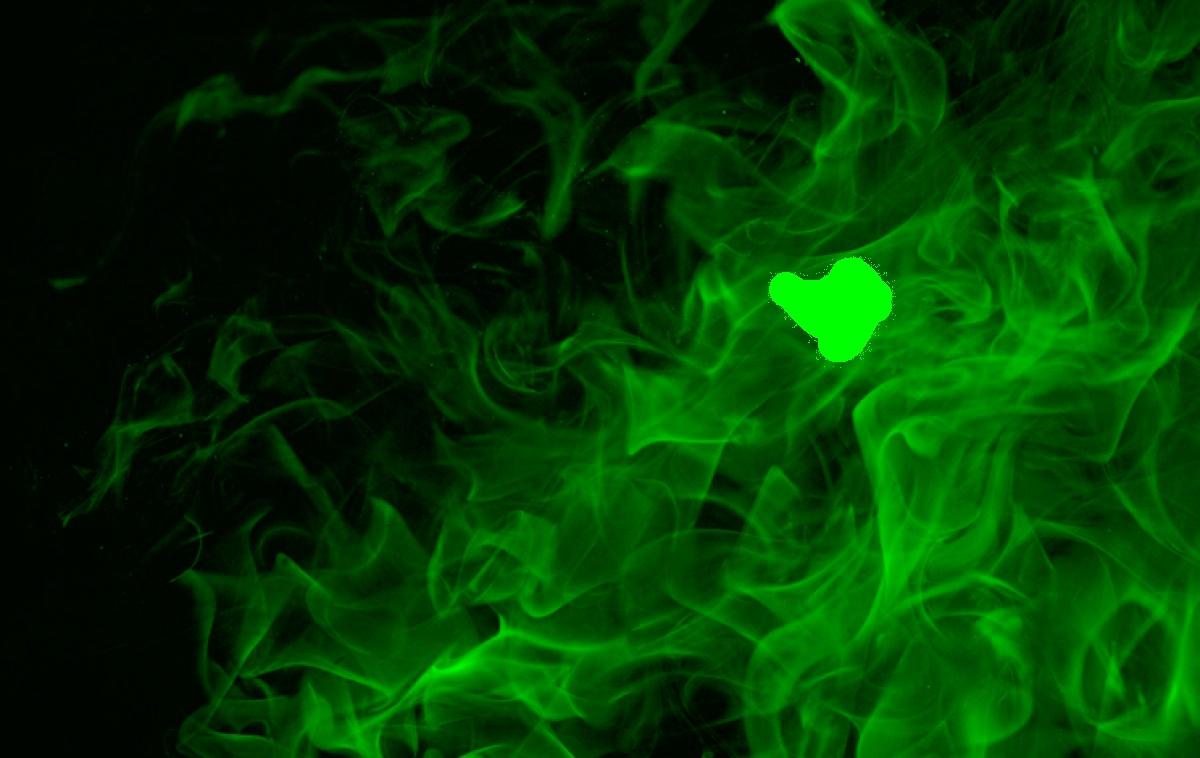
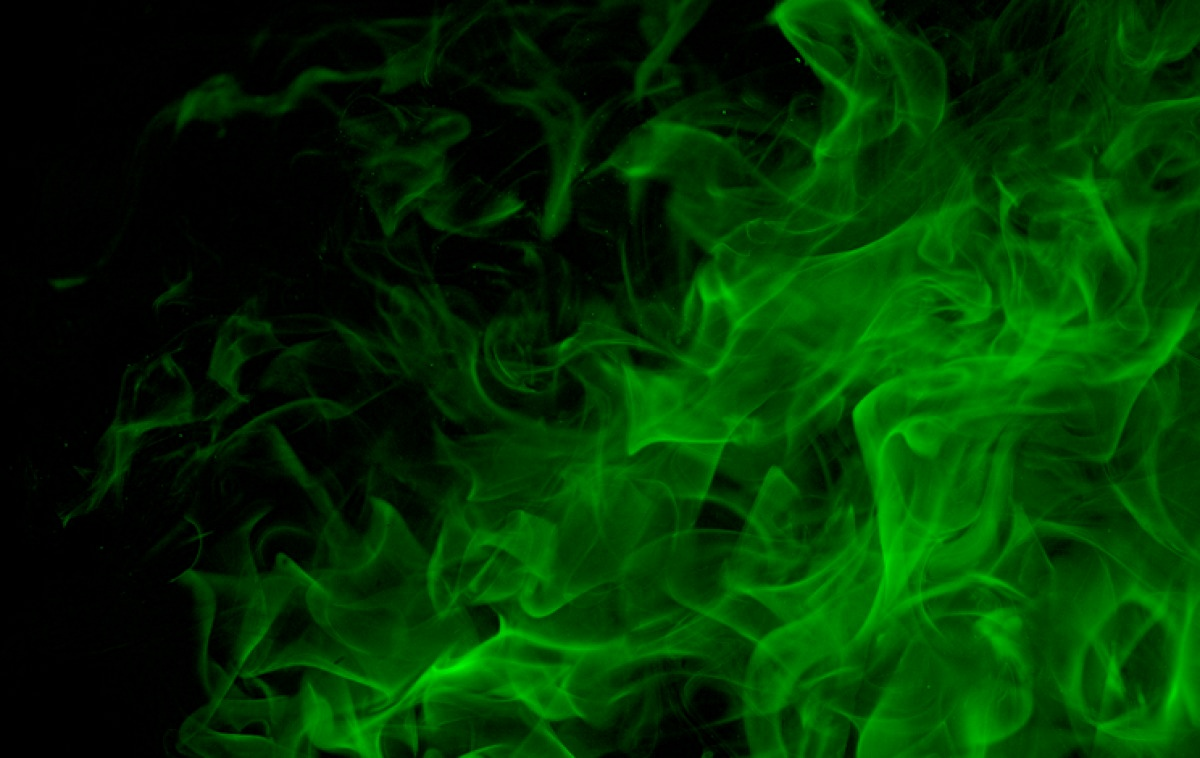
A usable version for edit propagation.

Changed region(s): [[0.6167, 0.3338, 0.74, 0.4855]]

diff --git a/edit-propagation/kdvalue.hpp b/edit-propagation/kdvalue.hpp
@@ -2,7 +2,7 @@
  * @Author: Fan Hsuan-Wei
  * @Date: 2020-01-04 05:51:53
  * @LastEditors  : Fan Hsuan-Wei
- * @LastEditTime : 2020-01-08 15:37:40
+ * @LastEditTime : 2020-01-09 02:07:54
  * @Description: Define k-d value 
  */
 
@@ -27,7 +27,8 @@ class KDValue
 {
 public:
     Float e;
-    KDValue(Float _e = 0.0) : e(_e) {}
+    Float weight;
+    KDValue(Float _e = 0.0, Float _weight = 0.0) : e(_e), weight(_weight) {}
     virtual int get_value(const int &dim) const = 0;
     virtual void set_value(const int &dim, unsigned int value) = 0;
 };
@@ -41,7 +42,7 @@ public:
     uint8_t r, g, b;
     uint16_t w, h;
     ImageKD() : KDValue() {}
-    ImageKD(uint8_t _r, uint8_t _g, uint8_t _b, uint16_t _w, uint16_t _h, Float _e = 0.0) : KDValue(_e), r(_r), g(_g), b(_b), w(_w), h(_h) {}
+    ImageKD(uint8_t _r, uint8_t _g, uint8_t _b, uint16_t _w, uint16_t _h, Float _e = 0.0, Float _weight = 0.0) : KDValue(_e, _weight), r(_r), g(_g), b(_b), w(_w), h(_h) {}
     ImageKD create_new(const int &pivot, const int &new_value) const
     {
         ImageKD new_kd = *this;
@@ -50,6 +51,7 @@ public:
     }
     ImageKD operator+(const ImageKD &kd)
     {
+        // TODO: Consider weight?
         return ImageKD(unsigned(r) + unsigned(kd.r), unsigned(g) + unsigned(kd.g), unsigned(b + kd.b), w + kd.w, h + kd.h);
     }
     ImageKD operator/(const int &n)
@@ -65,9 +67,9 @@ public:
     static int dim() { return dimension; }
     Float affinity(const ImageKD &kd)
     {
-        Float &&_r = (Float)(r - kd.r) / (Utils::theta_c*255.0);
-        Float &&_g = (Float)(g - kd.g) / (Utils::theta_c*255.0);
-        Float &&_b = (Float)(b - kd.b) / (Utils::theta_c*255.0);
+        Float &&_r = (Float)(r - kd.r) / (Utils::theta_c * 255.0);
+        Float &&_g = (Float)(g - kd.g) / (Utils::theta_c * 255.0);
+        Float &&_b = (Float)(b - kd.b) / (Utils::theta_c * 255.0);
         Float &&_w = (Float)(w - kd.w) / (Float)(Utils::width * Utils::theta_p);
         Float &&_h = (Float)(h - kd.h) / (Float)(Utils::height * Utils::theta_p);
         Float color_dist = sqrt(_r * _r + _g * _g + _b * _b);

diff --git a/edit-propagation/optimizer.hpp b/edit-propagation/optimizer.hpp
@@ -2,7 +2,7 @@
  * @Author: Fan Hsuan-Wei
  * @Date: 2020-01-07 10:54:38
  * @LastEditors  : Fan Hsuan-Wei
- * @LastEditTime : 2020-01-08 16:39:38
+ * @LastEditTime : 2020-01-09 02:17:38
  * @Description: The Optimizer class to solve 
  */
 #ifndef EDIT_Optimizer_HPP
@@ -90,9 +90,18 @@ DsMat Optimizer<T>::optimize()
     DsMat u = Eigen::MatrixXf::Zero(n, m);
     DsMat a = Eigen::MatrixXf::Zero(m, m);
 
+    SpMat W = create_sp_mat(n, n);
+
+    for(int i = 0; i < n; i ++)
+    {
+        T &pi = points[i];
+        W.insert(i, i) = pi.weight;
+    }
+
     for (int i = 0; i < m; i++)
     {
         T &pi = points[i];
+
         for (int j = 0; j < n; j++)
         {
             Float z = pi.affinity(points[j]);
@@ -107,7 +116,9 @@ DsMat Optimizer<T>::optimize()
     DsMat u_trans = u.transpose();
     DsMat a_inv = a.inverse();
     DsMat in = Eigen::MatrixXf::Ones(n, 1);
-    DsMat d = ((0.5 * Utils::w / Utils::lambda) + 1) * u * (a_inv * (u_trans * in));
+    // TODO: Add weight matrix
+    // DsMat d = ((0.5 * Utils::w / Utils::lambda) + 1) * u * (a_inv * (u_trans * in));
+    DsMat d = ((0.5/Utils::lambda) * (u * (a_inv * (u_trans * (W * in))))) + (u * (a_inv * (u_trans * in)));
     SpMat D = create_sp_mat(n, n);
     SpMat D_inv = create_sp_mat(n, n);
     for (int i = 0; i < n; i++)
@@ -116,7 +127,8 @@ DsMat Optimizer<T>::optimize()
         D_inv.insert(i, i) = (1.0) / d(i, 0);
     }
     SpMat su = u.sparseView();
-    DsMat uau_t_g = Utils::w * (su * (a_inv * (u_trans * g)));
+    // TODO: Add weight matrix
+    DsMat uau_t_g = Utils::w * (su * (a_inv * (u_trans * (W * g))));
     DsMat mid_term = ((-1) * a + u_trans * (D_inv * su)).inverse();
     DsMat first_term = D_inv * uau_t_g;
     DsMat last_term = D_inv * (su * (mid_term * (u_trans * (D_inv * uau_t_g))));

diff --git a/edit-propagation/edition.hpp b/edit-propagation/edition.hpp
@@ -2,7 +2,7 @@
  * @Author: Fan Hsuan-Wei
  * @Date: 2020-01-04 11:00:53
  * @LastEditors  : Fan Hsuan-Wei
- * @LastEditTime : 2020-01-08 18:12:13
+ * @LastEditTime : 2020-01-09 02:20:26
  * @Description: The class for edition. 
  */
 #ifndef EDIT_EDITION_HPP
@@ -51,7 +51,7 @@ Edition::Edition(const std::string &img_path)
             }
             // TODO: Find a better mapping method.
             // coof[j * width + i] = ((Float)_r / 255.0 + (Float)_g / 255.0 + (Float)_b / 255.0) / 3.0;
-            coof[j * width + i] = 0.7;
+            coof[j * width + i] = 0.1;
             cnt++;
             r += _r;
             g += _g;
@@ -94,8 +94,8 @@ Float Edition::get_coof(int w, int h) const
 
 void Edition::transfer(const Float &cf, int r, int g, int b, int &new_r, int &new_g, int &new_b)
 {
-    new_g = std::min(255, (int)(g + cf * 512));
-    printf("\rg diffent: %f, %d, %d", cf, g, new_g);
+    new_g = std::min(255, (int)(g + cf * 64));
+    // printf("\rg diffent: %f, %d, %d", cf, g, new_g);
 }
 
 std::vector<ImageKD> Edition::get_imagekd(Image &img) const
@@ -109,7 +109,8 @@ std::vector<ImageKD> Edition::get_imagekd(Image &img) const
             int g = img.get_pixel(w, h, CHANNEL::G);
             int b = img.get_pixel(w, h, CHANNEL::B);
             Float e = this->get_coof(w, h);
-            img_kdvalue.push_back(ImageKD(r, g, b, w, h, e));
+            Float weight = e > Utils::EPS ? Utils::w : 0;
+            img_kdvalue.push_back(ImageKD(r, g, b, w, h, e, weight));
         }
     }
     return img_kdvalue;

diff --git a/edit-propagation/corner.hpp b/edit-propagation/corner.hpp
@@ -2,7 +2,7 @@
  * @Author: Fan Hsuan-Wei
  * @Date: 2020-01-07 06:22:02
  * @LastEditors  : Fan Hsuan-Wei
- * @LastEditTime : 2020-01-08 02:13:06
+ * @LastEditTime : 2020-01-09 02:17:13
  * @Description: The definition of corner points
  */
 
@@ -15,14 +15,14 @@
 
 struct CornerInfo
 {
-    Float e, g, u;
-    CornerInfo(Float _e = 0, Float _g = 0, Float _u = 0) : e(_e), g(_g), u(_u) {}
-    CornerInfo operator+(const CornerInfo &v) { return CornerInfo(e + v.e, g + v.g, u + v.u); }
-    CornerInfo operator/(const Float &d) { return CornerInfo(e / d, g / d, u / d); }
+    Float e, g, u, weight;
+    CornerInfo(Float _e = 0, Float _g = 0, Float _u = 0, Float _w = 0) : e(_e), g(_g), u(_u), weight(_w) {}
+    CornerInfo operator+(const CornerInfo &v) { return CornerInfo(e + v.e, g + v.g, u + v.u, w + v.weight); }
+    CornerInfo operator/(const Float &d) { return CornerInfo(e / d, g / d, u / d, weight / d); }
     friend std::ostream &operator<<(std::ostream &out, const CornerInfo &c)
     {
         out << "Corner info: "
-            << "e- " << c.e << " g- " << c.g << " u- " << c.u;
+            << "e- " << c.e << " g- " << c.g << " u- " << c.u << " weight- " << c.weight;
         return out;
     }
 };

diff --git a/edit-propagation/kdtree.hpp b/edit-propagation/kdtree.hpp
@@ -2,7 +2,7 @@
  * @Author: Fan Hsuan-Wei
  * @Date: 2020-01-04 06:28:28
  * @LastEditors  : Fan Hsuan-Wei
- * @LastEditTime : 2020-01-08 18:08:02
+ * @LastEditTime : 2020-01-09 02:11:21
  * @Description: Implement of KD Tree 
  */
 
@@ -266,7 +266,7 @@ void KDTree<T>::calc_corners(KDNode<T> *node, Corners<T> *corners)
         }
         for (auto &c : corners_nodes)
         {
-            Float s = 0, g = 0;
+            Float s = 0, g = 0, w = 0;
             for (auto &d : node->data)
             {
                 T opposite = Utils::get_opposite_corner<T>(c, node->lower_bound, node->upper_bound);
@@ -274,10 +274,12 @@ void KDTree<T>::calc_corners(KDNode<T> *node, Corners<T> *corners)
                 Float si = Utils::multi_interpolate<T>(d, c, opposite);
                 s += si;
                 g += d.e * si;
+                w += d.weight * si;
             }
             // Because e is unknown before we calculate it.
             g = (s == 0) ? 0 : g / s;
-            corners->add_corner(c, CornerInfo(0.0, g, s));
+            w = (s == 0) ? 0 : w / s;
+            corners->add_corner(c, CornerInfo(0.0, g, s, w));
         }
     }
 }

diff --git a/edit-propagation/utils.hpp b/edit-propagation/utils.hpp
@@ -2,7 +2,7 @@
  * @Author: Fan Hsuan-Wei
  * @Date: 2020-01-04 07:25:57
  * @LastEditors  : Fan Hsuan-Wei
- * @LastEditTime : 2020-01-08 16:52:58
+ * @LastEditTime : 2020-01-09 02:19:50
  * @Description: file content
  */
 
@@ -38,7 +38,7 @@ public:
     static int width, height;
 };
 
-Float Utils::w = 0.8;
+Float Utils::w = 0.2;
 Float Utils::lambda = 0.7;
 Float Utils::EPS = 1e-3F;
 Float Utils::theta_c = 1.0;
